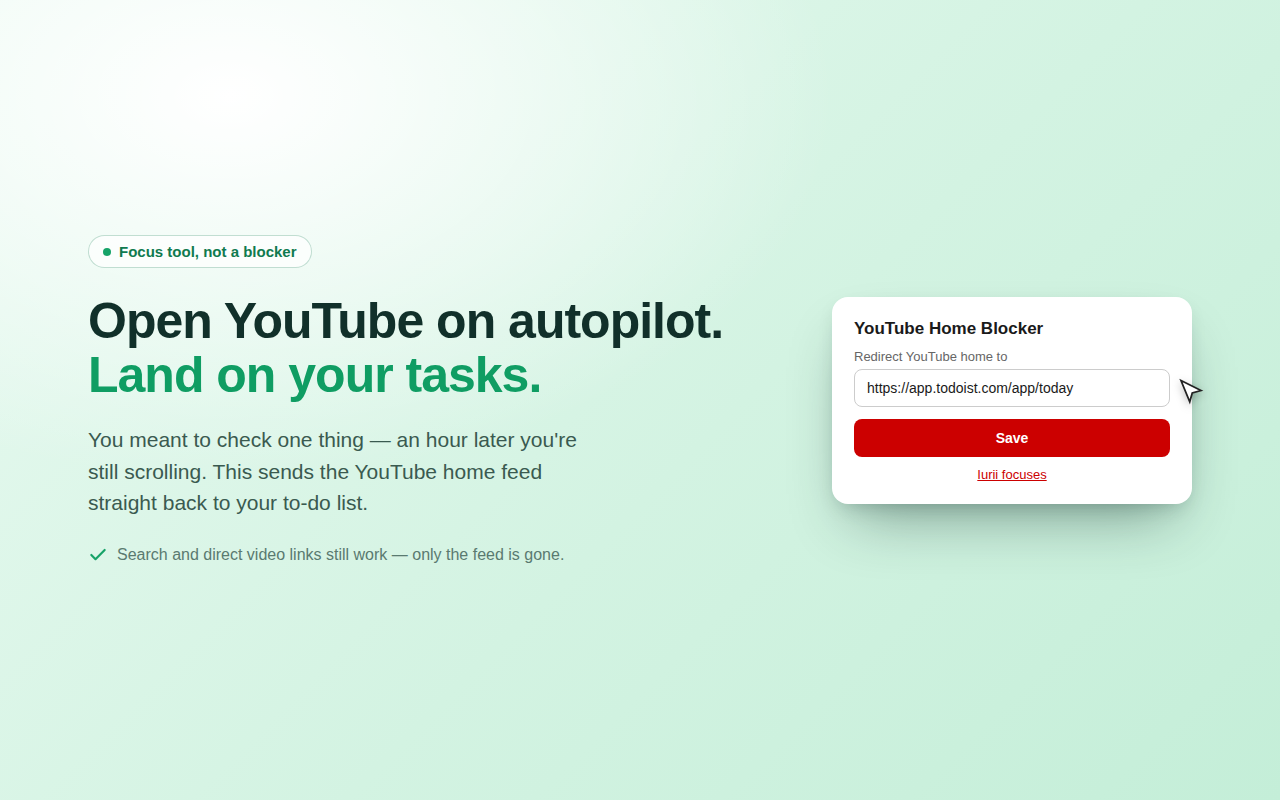
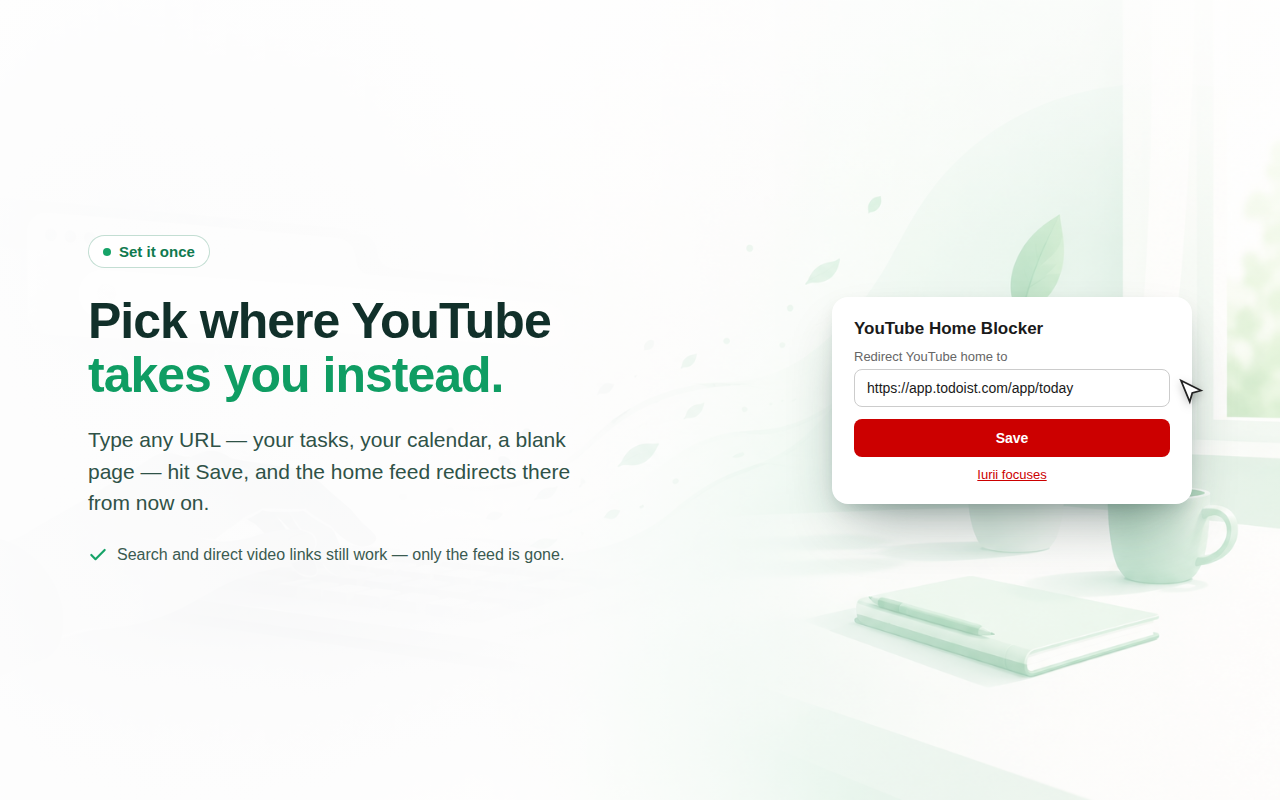
Add privacy policy and put promo/screenshot on illustrated backgrounds
- Add PRIVACY.md (no data collected; only the redirect URL is stored locally)
- Rework screenshot-1 and small promo tile to use a generated background
  with a scrim instead of a flat gradient; remove the glitchy icon shadow

diff --git a/store/shot-1.html b/store/shot-1.html
@@ -5,114 +5,60 @@
 <style>
   * { margin: 0; padding: 0; box-sizing: border-box; }
   html, body {
-    width: 1280px;
-    height: 800px;
-    overflow: hidden;
+    width: 1280px; height: 800px; overflow: hidden;
     font-family: -apple-system, BlinkMacSystemFont, "Segoe UI", Roboto, sans-serif;
   }
   .stage {
-    width: 1280px;
-    height: 800px;
-    display: flex;
-    align-items: center;
-    gap: 56px;
-    padding: 88px;
-    background:
-      radial-gradient(1100px 700px at 18% 12%, #ffffff 0%, rgba(255,255,255,0) 55%),
-      linear-gradient(135deg, #e9faf1 0%, #d3f3e2 55%, #c4eed8 100%);
+    position: relative; width: 1280px; height: 800px;
+    display: flex; align-items: center; gap: 56px; padding: 88px;
   }
-  .copy { flex: 1 1 0; }
+  .bg { position: absolute; inset: 0; z-index: 0;
+    background-image: url('background-1.png');
+    background-position: center 28%; background-size: cover; background-repeat: no-repeat; }
+  .scrim { position: absolute; inset: 0; z-index: 1;
+    background:
+      linear-gradient(90deg, rgba(255,255,255,0.94) 0%, rgba(255,255,255,0.82) 38%, rgba(255,255,255,0.45) 64%, rgba(255,255,255,0.35) 100%),
+      linear-gradient(180deg, rgba(255,255,255,0.5) 0%, rgba(255,255,255,0) 30%); }
+
+  .copy { position: relative; z-index: 2; flex: 1 1 0; }
   .badge {
-    display: inline-flex;
-    align-items: center;
-    gap: 8px;
-    font-size: 15px;
-    font-weight: 600;
-    color: #0f7a4f;
-    background: rgba(255,255,255,0.7);
-    border: 1px solid rgba(15,122,79,0.25);
-    padding: 7px 14px;
-    border-radius: 999px;
-    margin-bottom: 26px;
+    display: inline-flex; align-items: center; gap: 8px;
+    font-size: 15px; font-weight: 600; color: #0f7a4f;
+    background: rgba(255,255,255,0.8); border: 1px solid rgba(15,122,79,0.25);
+    padding: 7px 14px; border-radius: 999px; margin-bottom: 26px;
   }
   .badge .dot { width: 8px; height: 8px; border-radius: 50%; background: #16a368; }
-  h1 {
-    font-size: 50px;
-    line-height: 1.08;
-    font-weight: 800;
-    letter-spacing: -1px;
-    color: #11302a;
-  }
+  h1 { font-size: 50px; line-height: 1.08; font-weight: 800; letter-spacing: -1px; color: #11302a; }
   h1 .accent { color: #0f9d63; }
-  p.sub {
-    margin-top: 22px;
-    font-size: 21px;
-    line-height: 1.5;
-    color: #3a5a50;
-    max-width: 520px;
-  }
-  .note {
-    margin-top: 26px;
-    font-size: 16px;
-    color: #5a7a70;
-    display: flex;
-    align-items: center;
-    gap: 9px;
-  }
+  p.sub { margin-top: 22px; font-size: 21px; line-height: 1.5; color: #2f5247; max-width: 520px; }
+  .note { margin-top: 26px; font-size: 16px; color: #3a5a50; display: flex; align-items: center; gap: 9px; }
   .note svg { flex: none; }
 
-  /* floating popup card */
-  .card-wrap { flex: none; position: relative; }
-  .cursor {
-    position: absolute;
-    right: -14px;
-    bottom: 96px;
-    width: 30px;
-    height: 30px;
-    z-index: 3;
-    filter: drop-shadow(0 3px 4px rgba(0,0,0,0.25));
-  }
+  .card-wrap { position: relative; z-index: 2; flex: none; }
+  .cursor { position: absolute; right: -14px; bottom: 96px; width: 30px; height: 30px; z-index: 3;
+    filter: drop-shadow(0 3px 4px rgba(0,0,0,0.25)); }
   .popup {
-    width: 360px;
-    background: #fff;
-    border-radius: 16px;
+    width: 360px; background: #fff; border-radius: 16px;
     box-shadow: 0 30px 60px -20px rgba(17,48,42,0.45), 0 8px 20px -8px rgba(17,48,42,0.25);
-    padding: 22px;
-    display: flex;
-    flex-direction: column;
-    gap: 10px;
-    color: #1a1a1a;
+    padding: 22px; display: flex; flex-direction: column; gap: 10px; color: #1a1a1a;
   }
   .popup h2 { font-size: 17px; font-weight: 700; }
   .field { display: flex; flex-direction: column; gap: 5px; }
   .field label { font-size: 13px; color: #666; }
-  .field .input {
-    padding: 10px 12px;
-    font-size: 14px;
-    border: 1px solid #ccc;
-    border-radius: 8px;
-    color: #1a1a1a;
-  }
-  .save {
-    margin-top: 2px;
-    padding: 11px;
-    font-size: 14px;
-    font-weight: 700;
-    color: #fff;
-    background: #c00;
-    border-radius: 8px;
-    text-align: center;
-  }
+  .field .input { padding: 10px 12px; font-size: 14px; border: 1px solid #ccc; border-radius: 8px; color: #1a1a1a; }
+  .save { margin-top: 2px; padding: 11px; font-size: 14px; font-weight: 700; color: #fff; background: #c00; border-radius: 8px; text-align: center; }
   .popup .foot { font-size: 13px; text-align: center; }
   .popup .foot a { color: #c00; text-decoration: underline; }
 </style>
 </head>
 <body>
   <div class="stage">
+    <div class="bg"></div>
+    <div class="scrim"></div>
     <div class="copy">
-      <span class="badge"><span class="dot"></span>Focus tool, not a blocker</span>
-      <h1>Open YouTube on autopilot.<br><span class="accent">Land on your tasks.</span></h1>
-      <p class="sub">You meant to check one thing — an hour later you're still scrolling. This sends the YouTube home feed straight back to your to-do list.</p>
+      <span class="badge"><span class="dot"></span>Set it once</span>
+      <h1>Pick where YouTube<br><span class="accent">takes you instead.</span></h1>
+      <p class="sub">Type any URL — your tasks, your calendar, a blank page — hit Save, and the home feed redirects there from now on.</p>
       <div class="note">
         <svg width="20" height="20" viewBox="0 0 24 24" fill="none"><path d="M20 6L9 17l-5-5" stroke="#16a368" stroke-width="2.6" stroke-linecap="round" stroke-linejoin="round"/></svg>
         Search and direct video links still work — only the feed is gone.

diff --git a/store/promo-small.html b/store/promo-small.html
@@ -8,16 +8,17 @@
     width: 440px; height: 280px; overflow: hidden;
     font-family: -apple-system, BlinkMacSystemFont, "Segoe UI", Roboto, sans-serif;
   }
-  .stage {
-    width: 440px; height: 280px;
-    display: flex; flex-direction: column; align-items: center; justify-content: center;
-    text-align: center; padding: 28px;
+  .stage { position: relative; width: 440px; height: 280px; }
+  .bg { position: absolute; inset: 0;
+    background-image: url('background-1.png');
+    background-position: center 30%; background-size: cover; background-repeat: no-repeat; }
+  .scrim { position: absolute; inset: 0;
     background:
-      radial-gradient(420px 280px at 50% 0%, #ffffff 0%, rgba(255,255,255,0) 60%),
-      linear-gradient(140deg, #e9faf1 0%, #d3f3e2 60%, #c4eed8 100%);
-  }
-  .icon { width: 64px; height: 64px; border-radius: 15px;
-    box-shadow: 0 10px 22px -8px rgba(17,48,42,0.4); margin-bottom: 16px; }
+      radial-gradient(420px 300px at 50% 52%, rgba(255,255,255,0.92) 0%, rgba(255,255,255,0.78) 48%, rgba(255,255,255,0.5) 100%); }
+  .content { position: absolute; inset: 0;
+    display: flex; flex-direction: column; align-items: center; justify-content: center;
+    text-align: center; padding: 28px; }
+  .icon { width: 60px; height: 60px; border-radius: 14px; margin-bottom: 16px; }
   .name { font-size: 25px; font-weight: 800; letter-spacing: -0.6px; color: #11302a; }
   .tag { margin-top: 9px; font-size: 15px; line-height: 1.35; color: #2f5247; max-width: 320px; }
   .tag b { color: #0f9d63; font-weight: 700; }
@@ -25,9 +26,13 @@
 </head>
 <body>
   <div class="stage">
-    <img class="icon" src="../icons/icon128.png" alt="">
-    <div class="name">YouTube Home Blocker</div>
-    <div class="tag">Redirect the home feed to your tasks and <b>stay focused</b>.</div>
+    <div class="bg"></div>
+    <div class="scrim"></div>
+    <div class="content">
+      <img class="icon" src="../icons/icon128.png" alt="">
+      <div class="name">YouTube Home Blocker</div>
+      <div class="tag">Redirect the home feed to your tasks and <b>stay focused</b>.</div>
+    </div>
   </div>
 </body>
 </html>

diff --git a/PRIVACY.md b/PRIVACY.md
@@ -1,0 +1,39 @@
+# Privacy Policy — YouTube Home Blocker
+
+_Last updated: 2026-06-06_
+
+**YouTube Home Blocker — Redirect & Focus** is a browser extension that
+redirects the YouTube homepage to a URL you choose. This policy explains exactly
+what the extension does and does not do with your data.
+
+## What we collect
+
+**Nothing.** The extension does not collect, transmit, sell, or share any
+personal data. There is no analytics, no tracking, no remote server, and no user
+account.
+
+## What is stored, and where
+
+The only piece of data the extension stores is the **redirect URL** you set in
+the popup. It is saved using Chrome's built-in `chrome.storage.sync` API, which
+keeps it inside your own browser profile (and, if you are signed into Chrome,
+syncs it across your own devices through your Google account).
+
+This value never leaves your browser and is never sent to the developer or any
+third party.
+
+## Permissions
+
+- **storage** — used solely to save and read your chosen redirect URL.
+- **Host access to `www.youtube.com`** — required so the extension can detect the
+  YouTube homepage and redirect it. The extension does not read, modify, or
+  transmit the content of any page.
+
+## Changes
+
+If this policy ever changes, the updated version will be posted at this URL with
+a new "Last updated" date.
+
+## Contact
+
+Questions? Reach out via <https://iurii.rogulia.fi>.